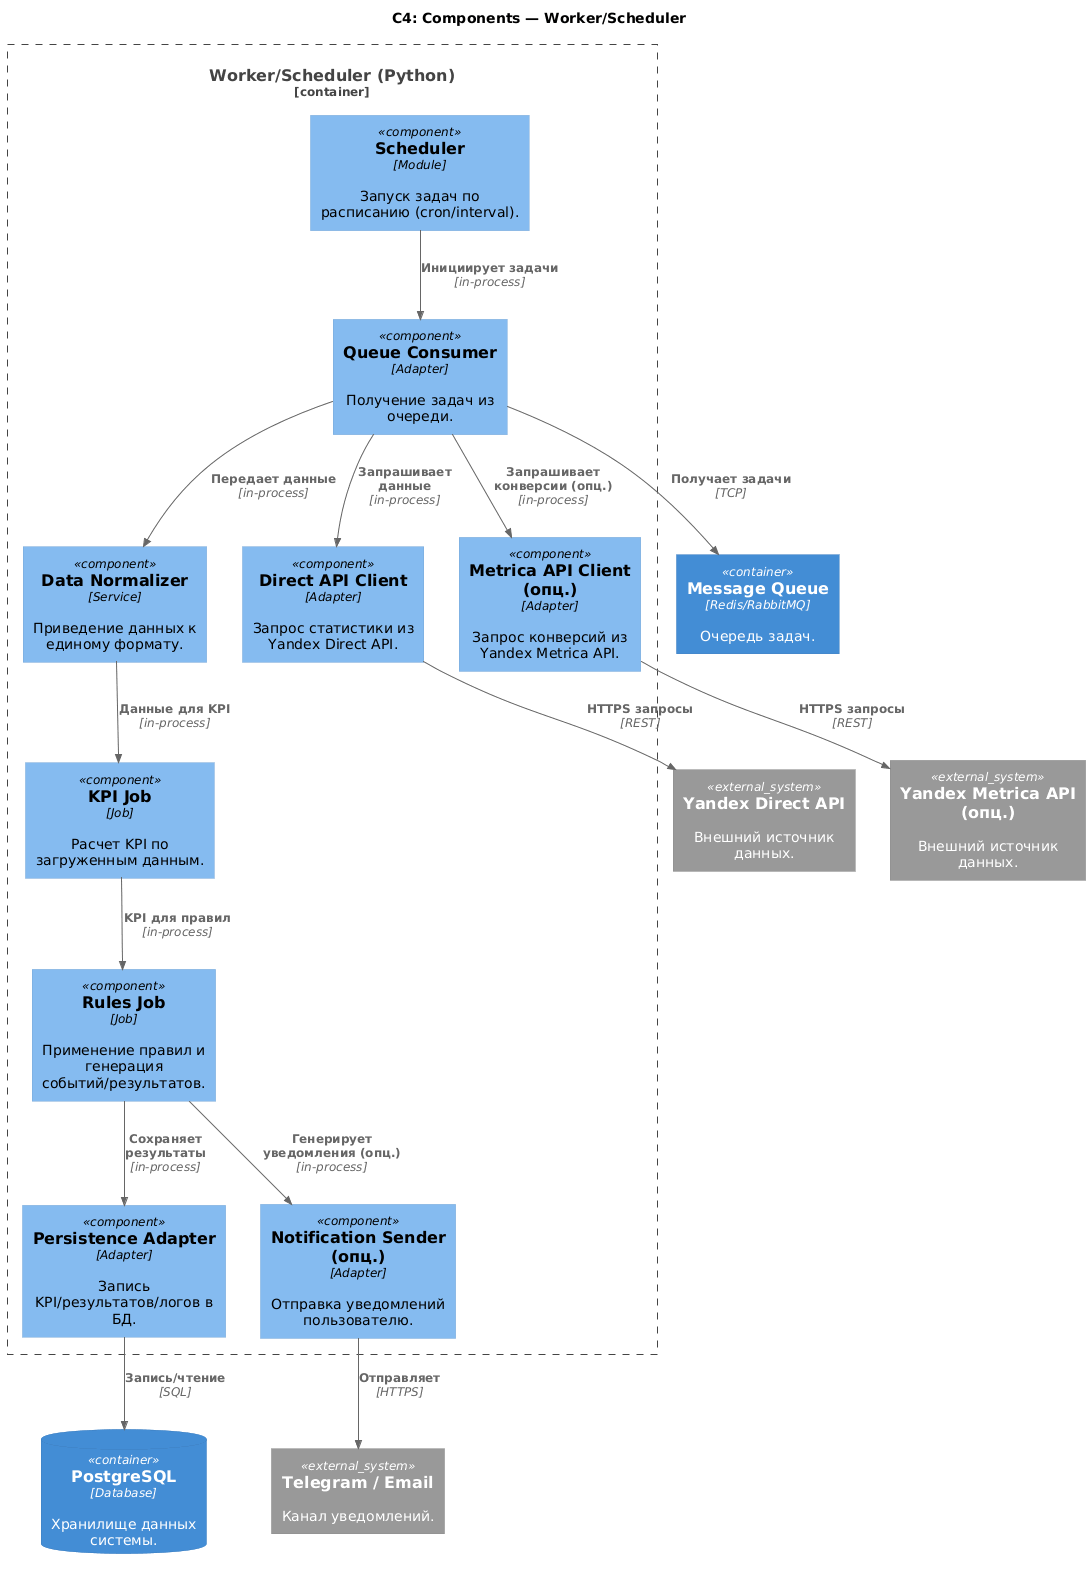
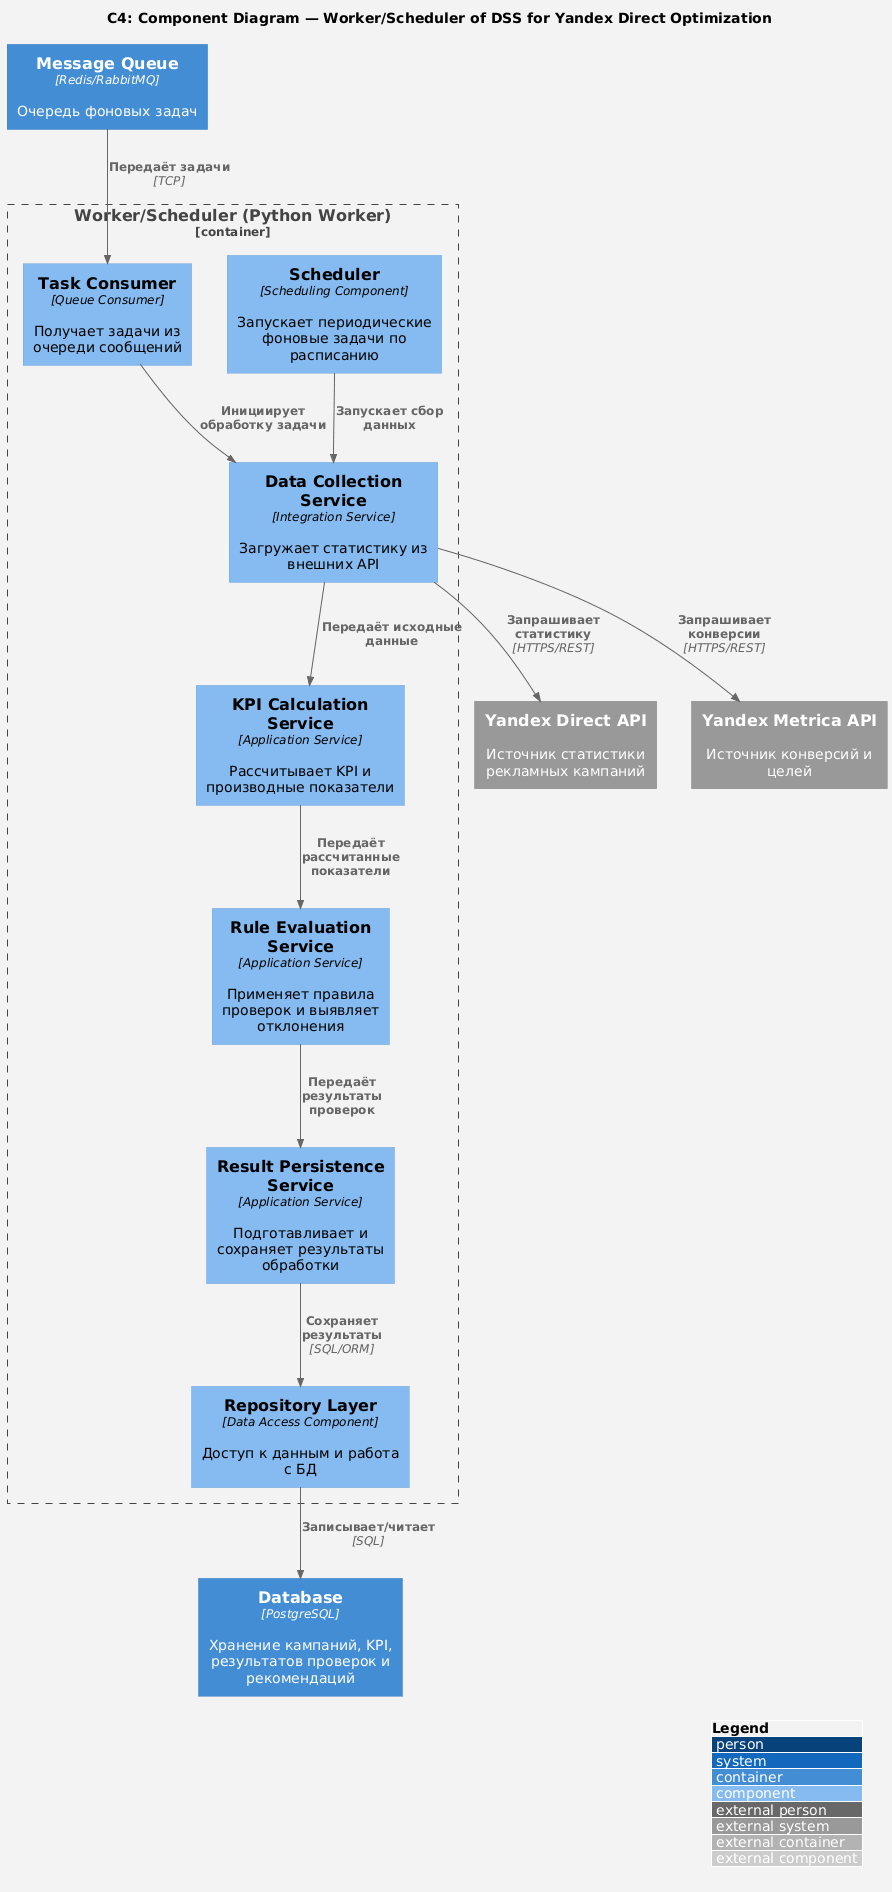
lab2 updates

diff --git a/lab2/README.md b/lab2/README.md
@@ -46,27 +46,24 @@
 ![c4_components_backend](lab2-3.png)
 
 Показано разбиение Backend на компоненты:
-- Auth & RBAC
-- Account Integration (подключение аккаунта/токенов)
-- Campaign Data Service (работа с данными кампаний)
-- KPI Calculator (расчет метрик)
-- Rules Engine (проверки и правила)
-- Recommendations Service (формирование рекомендаций)
-- Reporting API (выдача данных на UI)
-- Repositories (доступ к БД)
-- Queue Client (постановка задач воркеру)
+- Controllers — точка входа в backend.
+- Auth — проверяет, кто может смотреть KPI и менять правила.
+- Services — реализуют бизнес-логику по отдельным зонам ответственности.
+- Repository — отделяет бизнес-логику от SQL и работы с БД.
+- Task Publisher — передает тяжёлые и фоновые операции в очередь.
+- Notification Event Service — изолирует формирование уведомлений от основной логики API.
 
 ### Компоненты контейнера Worker/Scheduler
 
 ![c4_components_worker](lab2-4.png)
 
 Показано, как Worker выполняет:
-- Scheduler (cron/планировщик)
-- Direct API Client
-- Metrica API Client (опционально)
-- Data Normalizer (приведение данных к единому формату)
-- KPI Job / Rules Job (пайплайн обработки)
-- Persistence Adapter (запись результатов в БД)
-- Notification Sender (опционально)
+- Scheduler — запускает периодические фоновые задачи по расписанию
+- Task Consumer — получает задачи из Message Queue
+- Data Collection Service — забирает статистику из Yandex Direct API и, при необходимости, из Yandex Metrica API
+- KPI Calculation Service — считает KPI и агрегирует результаты
+- Rule Evaluation Service — применяет правила и ищет отклонения
+- Result Persistence Service — сохраняет результаты обработки
+- Repository Layer — доступ к данным в Database
 
 ---
